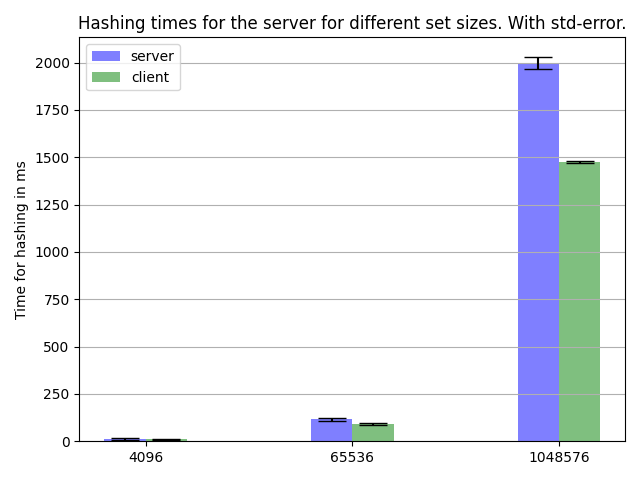
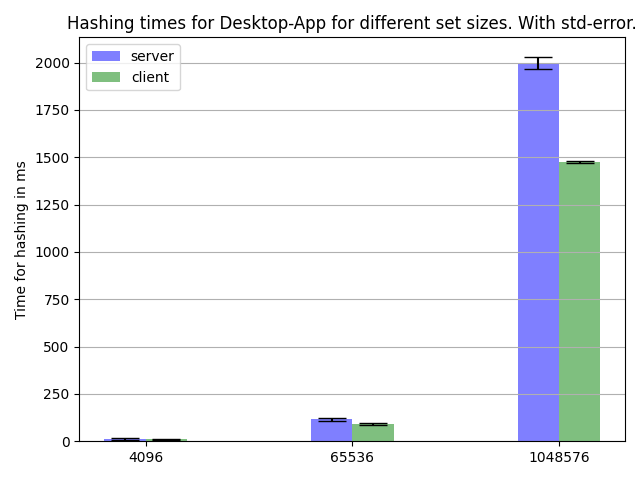
fixing parsing, modularized plotting. added total time plot.

Changed region(s): [[0.0938, 0.0312, 1.0, 0.0625]]

diff --git a/plot.py b/plot.py
@@ -33,8 +33,8 @@ def load_batch(pattern):
     # load batch
     # return data object
 
-def plot_hashing(data):
-    # simple plot right now.
+
+def get_s_c_mean_std(data, key):
     set_sizes = []
     server_means = []
     client_means = []
@@ -42,17 +42,27 @@ def plot_hashing(data):
     client_stds = []
     for b in data:
         set_sizes.append(b['parameters']['client_neles'])
-        s_hashing_t = []
-        c_hashing_t = []
+        s_measure = []
+        c_measure = []
         for i in range(len(b)-1):
-            s_hashing_t.append(b[i]['s_output']['hashing_t'])
-            c_hashing_t.append(b[i]['c_output']['hashing_t'])
-        # print(f"Server hashing time: {sum(s_hashing_t)/(len(b)-1)}")
-        # print(f"Client hashing time: {sum(c_hashing_t)/(len(b)-1)}")
-        server_means.append(np.mean(s_hashing_t))
-        server_stds.append(np.std(s_hashing_t))
-        client_means.append(np.mean(c_hashing_t))
-        client_stds.append(np.std(c_hashing_t))
+            try:
+                s_measure.append(b[i]['s_output'][key])
+                c_measure.append(b[i]['c_output'][key])
+            except KeyError as k:
+                print(f"KEYERROR for key: {key} in repeat {i} for {b['parameters']['client_neles']}")
+                # raise k
+        # print(f"Server hashing time: {sum(s_measure)/(len(b)-1)}")
+        # print(f"Client hashing time: {sum(c_measure)/(len(b)-1)}")
+        server_means.append(np.mean(s_measure))
+        server_stds.append(np.std(s_measure))
+        client_means.append(np.mean(c_measure))
+        client_stds.append(np.std(c_measure))
+    
+    return set_sizes, server_means, server_stds, client_means, client_stds
+
+def plot_hashing(data):
+    # simple plot right now.
+    set_sizes, server_means, server_stds, client_means, client_stds = get_s_c_mean_std(data, "hashing_t")
     x_pos = np.arange(len(set_sizes))
     fig, ax = plt.subplots()
     server = ax.bar(x_pos-0.1, server_means, yerr=server_stds, width=0.2, color='b', align='center', alpha=0.5,
@@ -62,7 +72,7 @@ def plot_hashing(data):
     ax.set_ylabel(f"Time for hashing in ms")
     ax.set_xticks(x_pos)
     ax.set_xticklabels(set_sizes)
-    ax.set_title("Hashing times for the server for different set sizes. With std-error.")
+    ax.set_title("Hashing times for Desktop-App for different set sizes. With std-error.")
     ax.yaxis.grid(True)
 
     ax.legend((server[0], client[0]),('server', 'client'))
@@ -70,10 +80,37 @@ def plot_hashing(data):
     plt.tight_layout()
     plt.show()
 
+def plot_total_time(data):
+    set_sizes, server_means, server_stds, client_means, client_stds = get_s_c_mean_std(
+        data, "total_t")
+    x_pos = np.arange(len(set_sizes))
+    fig, ax = plt.subplots()
+    server = ax.bar(x_pos-0.1, server_means, yerr=server_stds, width=0.2, color='b', align='center', alpha=0.5,
+           ecolor='black', capsize=10) 
+    client = ax.bar(x_pos+0.1, client_means, yerr=client_stds, width=0.2, color='g', align='center', alpha=0.5,
+           ecolor='black', capsize=10)
+    ax.set_ylabel(f"Total time in in ms")
+    ax.set_xticks(x_pos)
+    ax.set_xticklabels(set_sizes)
+    ax.set_title("Total time for Desktop-App for different set sizes. With std-error.")
+    ax.yaxis.grid(True)
+
+    ax.legend((server[0], client[0]),('server', 'client'))
+
+    plt.tight_layout()
+    plt.show()
+
+
+def plot_time_donut(data):
+    pass
+
 if __name__ == '__main__':
     ap = argparse.ArgumentParser()
     ap.add_argument('--hash', action='store_true')
+    ap.add_argument('--total_t', action='store_true')
     args = ap.parse_args()
     data = load_batch(batch_name)
     if args.hash:
         plot_hashing(data)
+    if args.total_t:
+        plot_total_time(data)

diff --git a/parsing.py b/parsing.py
@@ -4,16 +4,16 @@ import re
 re_success_result = re.compile(
     r"PSI circuit successfully executed. Result: (?P<result>\d+)")
 re_app_result = re.compile(r"PSI run returned: (?P<result>\d+)")
-re_time_hashing = re.compile(r"Time for hashing (?P<hashing_t>\d+\.\d+) ms")
-re_time_oprf = re.compile(r"Time for OPRF (?P<oprf_t>\d+\.\d+) ms")
-re_time_poly = re.compile(r"Time for polynomials (?P<poly_t>\d+\.\d+) ms")
+re_time_hashing = re.compile(r"Time for hashing (?P<hashing_t>\d+(\.\d*)?) ms")
+re_time_oprf = re.compile(r"Time for OPRF (?P<oprf_t>\d+(\.\d*)?) ms")
+re_time_poly = re.compile(r"Time for polynomials (?P<poly_t>\d+(\.\d*)?) ms")
 re_time_poly_trans = re.compile(
-    r"Time for transmission of the polynomials (?P<poly_trans_t>\d+\.\d+) ms")
+    r"Time for transmission of the polynomials (?P<poly_trans_t>\d+(\.\d*)?) ms")
 re_time_aby = re.compile(
-    r"ABY timings: online time (?P<aby_online_t>\d+\.\d+) ms, setup time (?P<aby_setup_t>\d+\.\d+) ms, total time (?P<aby_total_t>\d+\.\d+) ms")
-re_time_total = re.compile(r"Total runtime: (?P<total_t>\d+\.\d+)ms")
+    r"ABY timings: online time (?P<aby_online_t>\d+(\.\d*)?) ms, setup time (?P<aby_setup_t>\d+(\.\d*)?) ms, total time (?P<aby_total_t>\d+(\.\d*)?) ms")
+re_time_total = re.compile(r"Total runtime: (?P<total_t>\d+(\.\d*)?)ms")
 re_time_nobase = re.compile(
-    r"Total runtime w/o base OTs: (?P<nobase_t>\d+\.\d+)ms")
+    r"Total runtime w/o base OTs: (?P<nobase_t>\d+(\.\d*)?)ms")
 re_comm_poly = re.compile(
     r"Data for polynomials recv/sent (?P<recv>\d+) / (?P<sent>\d+) b")
 re_comm_oprf = re.compile(
